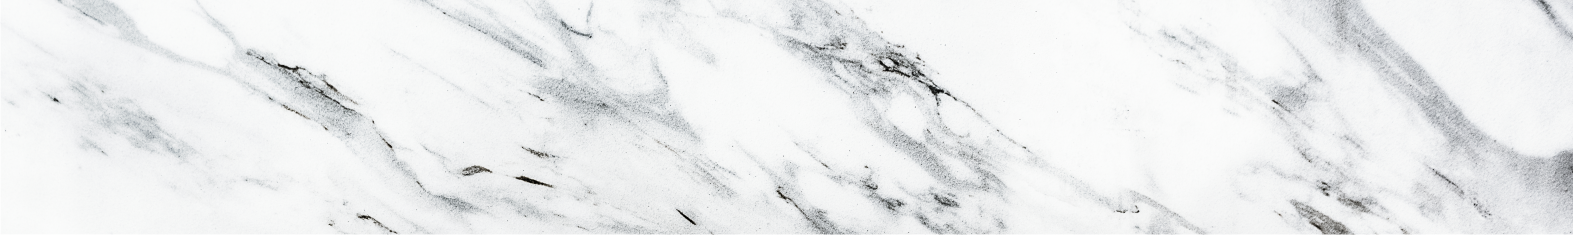
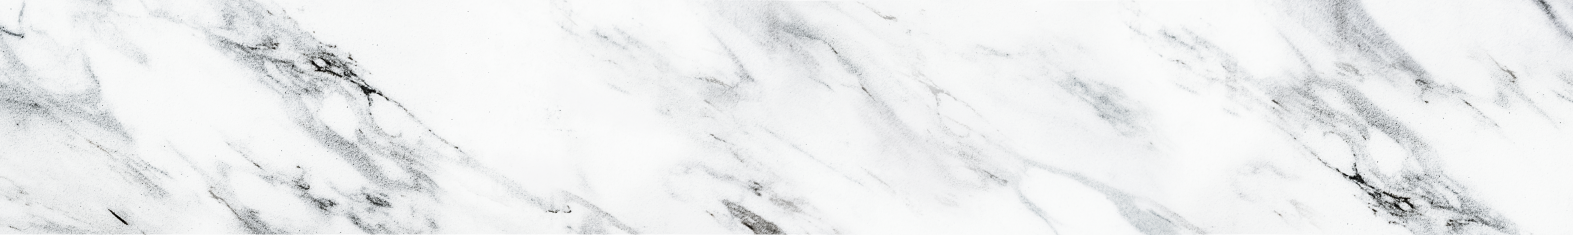
muucho

diff --git a/css/general.css b/css/general.css
@@ -15,10 +15,6 @@
     justify-content: center;
 }
 
-.zafiro{
-    padding-left: 35%;
-}
-
 /*Botonera*/
 .botonera{
     width: 100%;
@@ -84,7 +80,7 @@
     height: 80%;
     display: flex;
     justify-content: center;
-    background-color: rgb(136, 136, 136);
+    background-image: url(../images/fondomármolnegro.PNG);
 }
 
 .tarjmenor{
